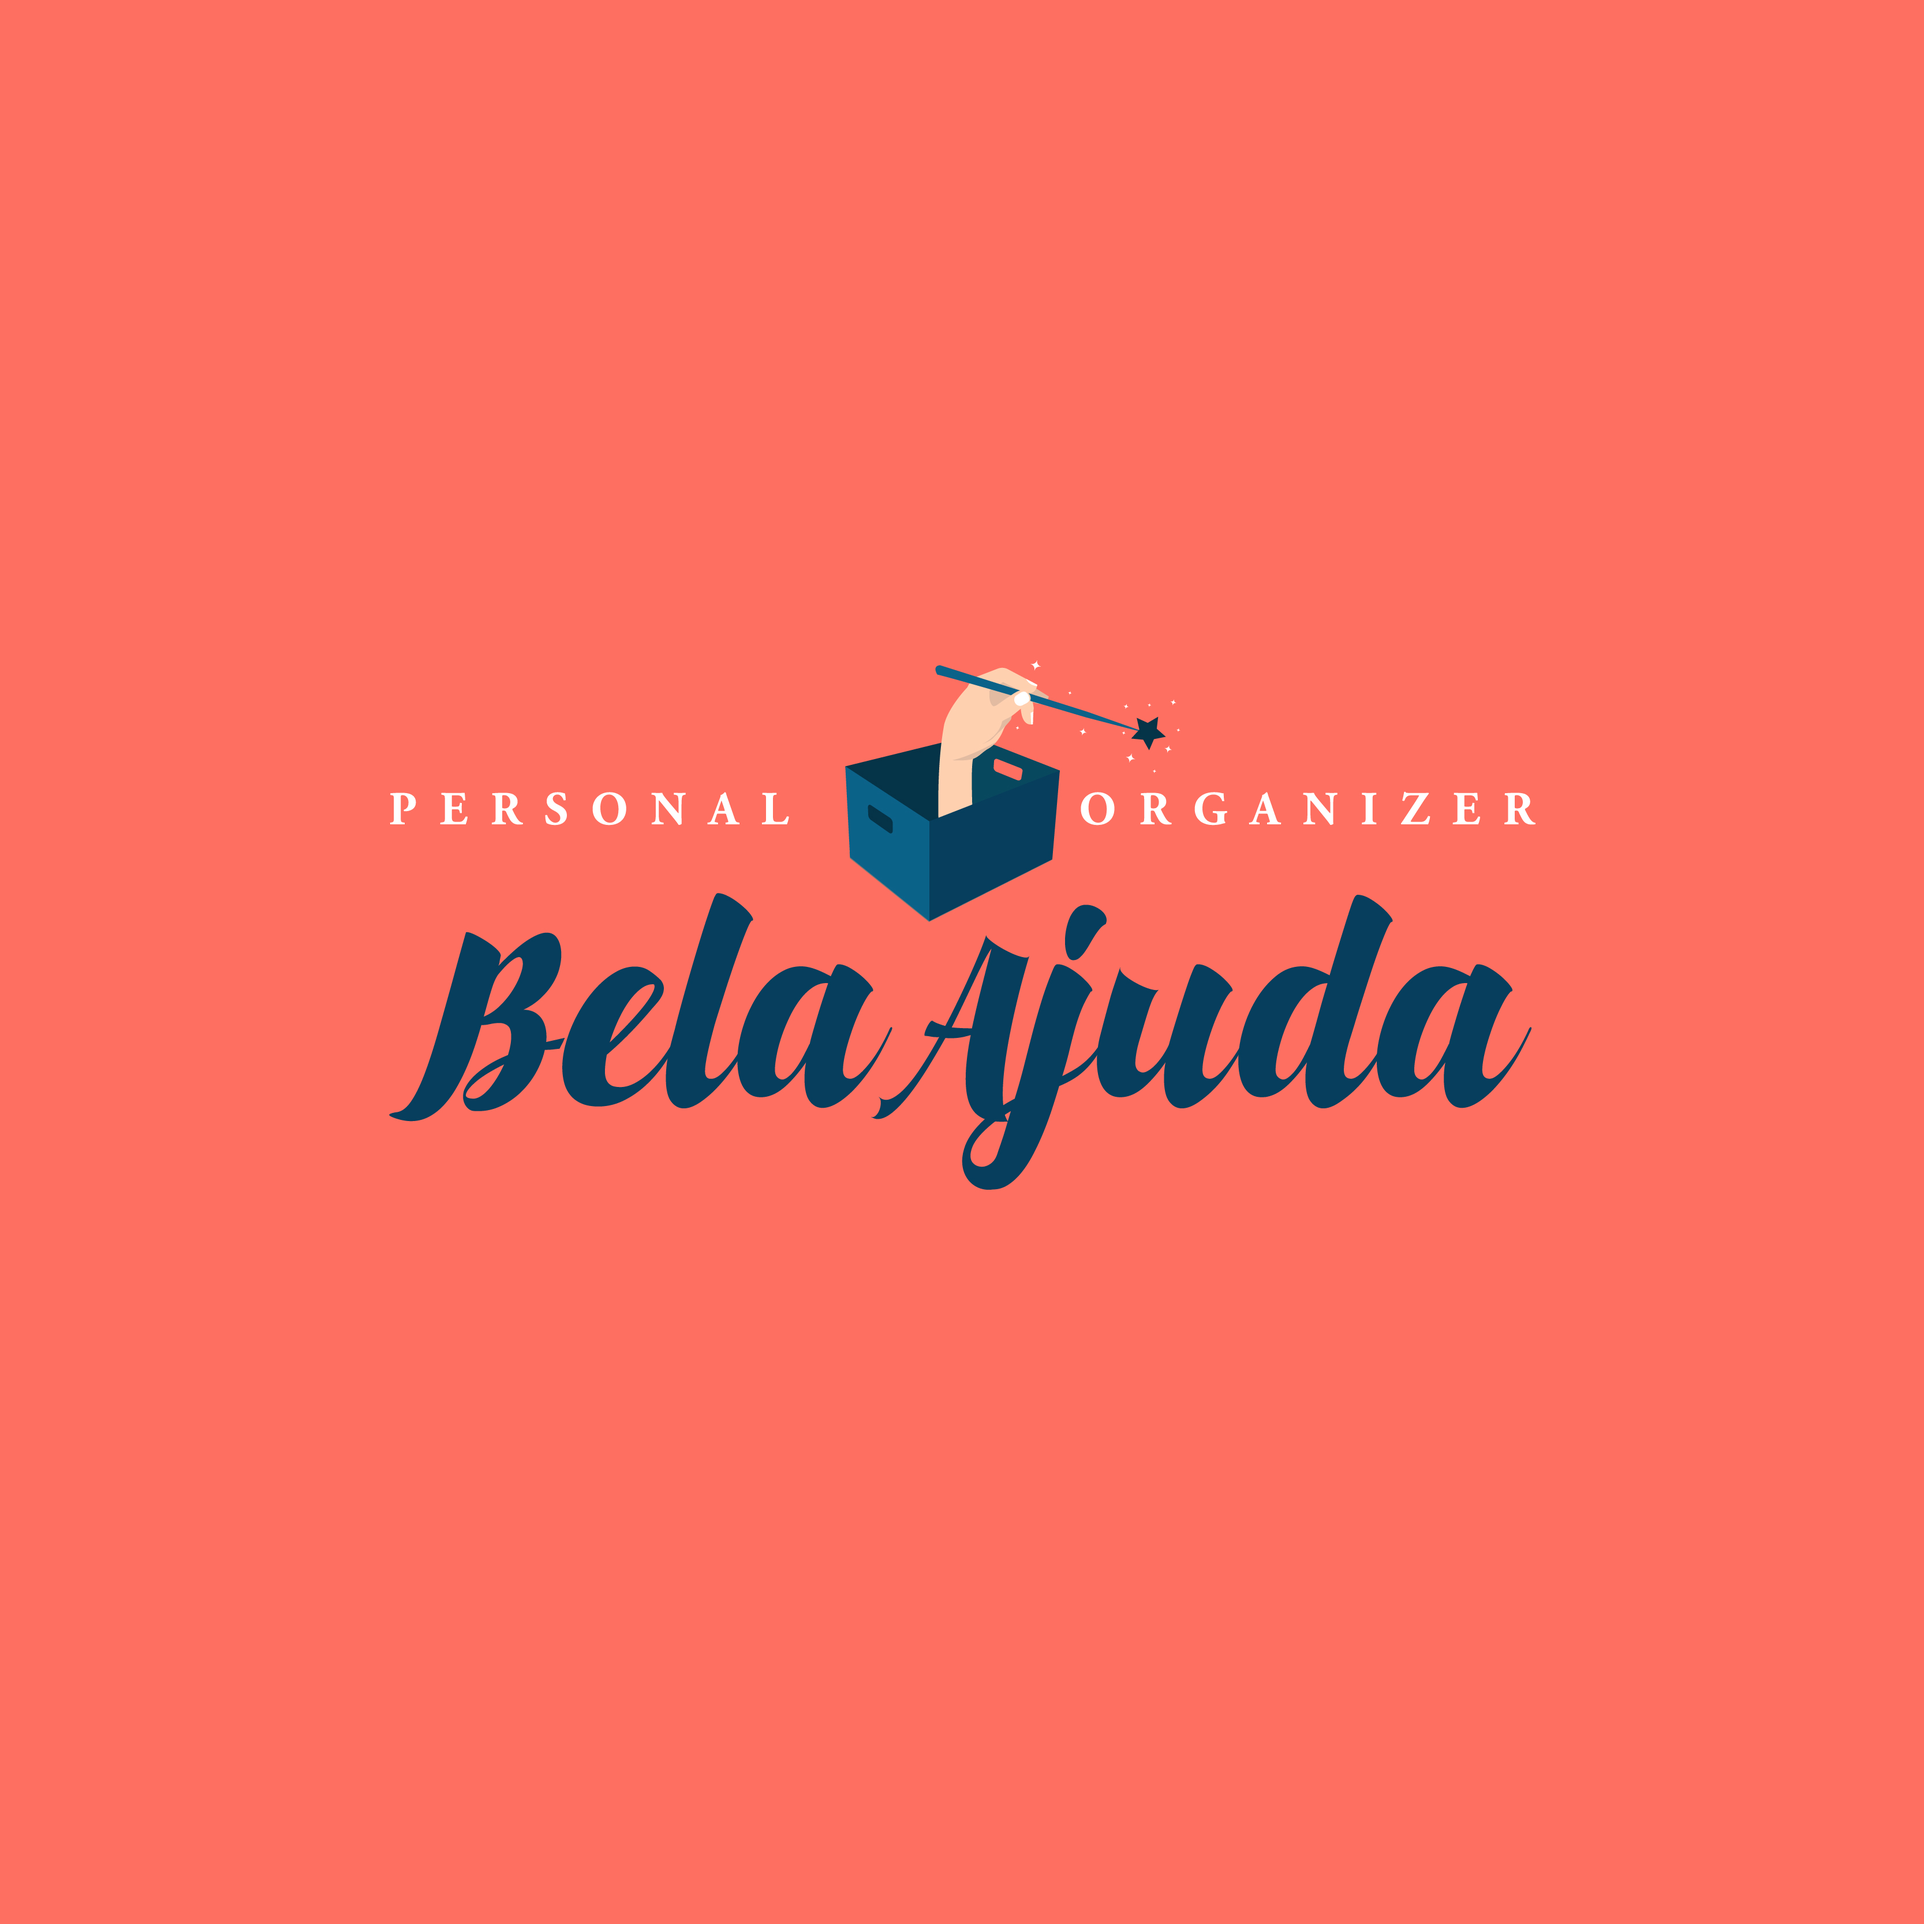
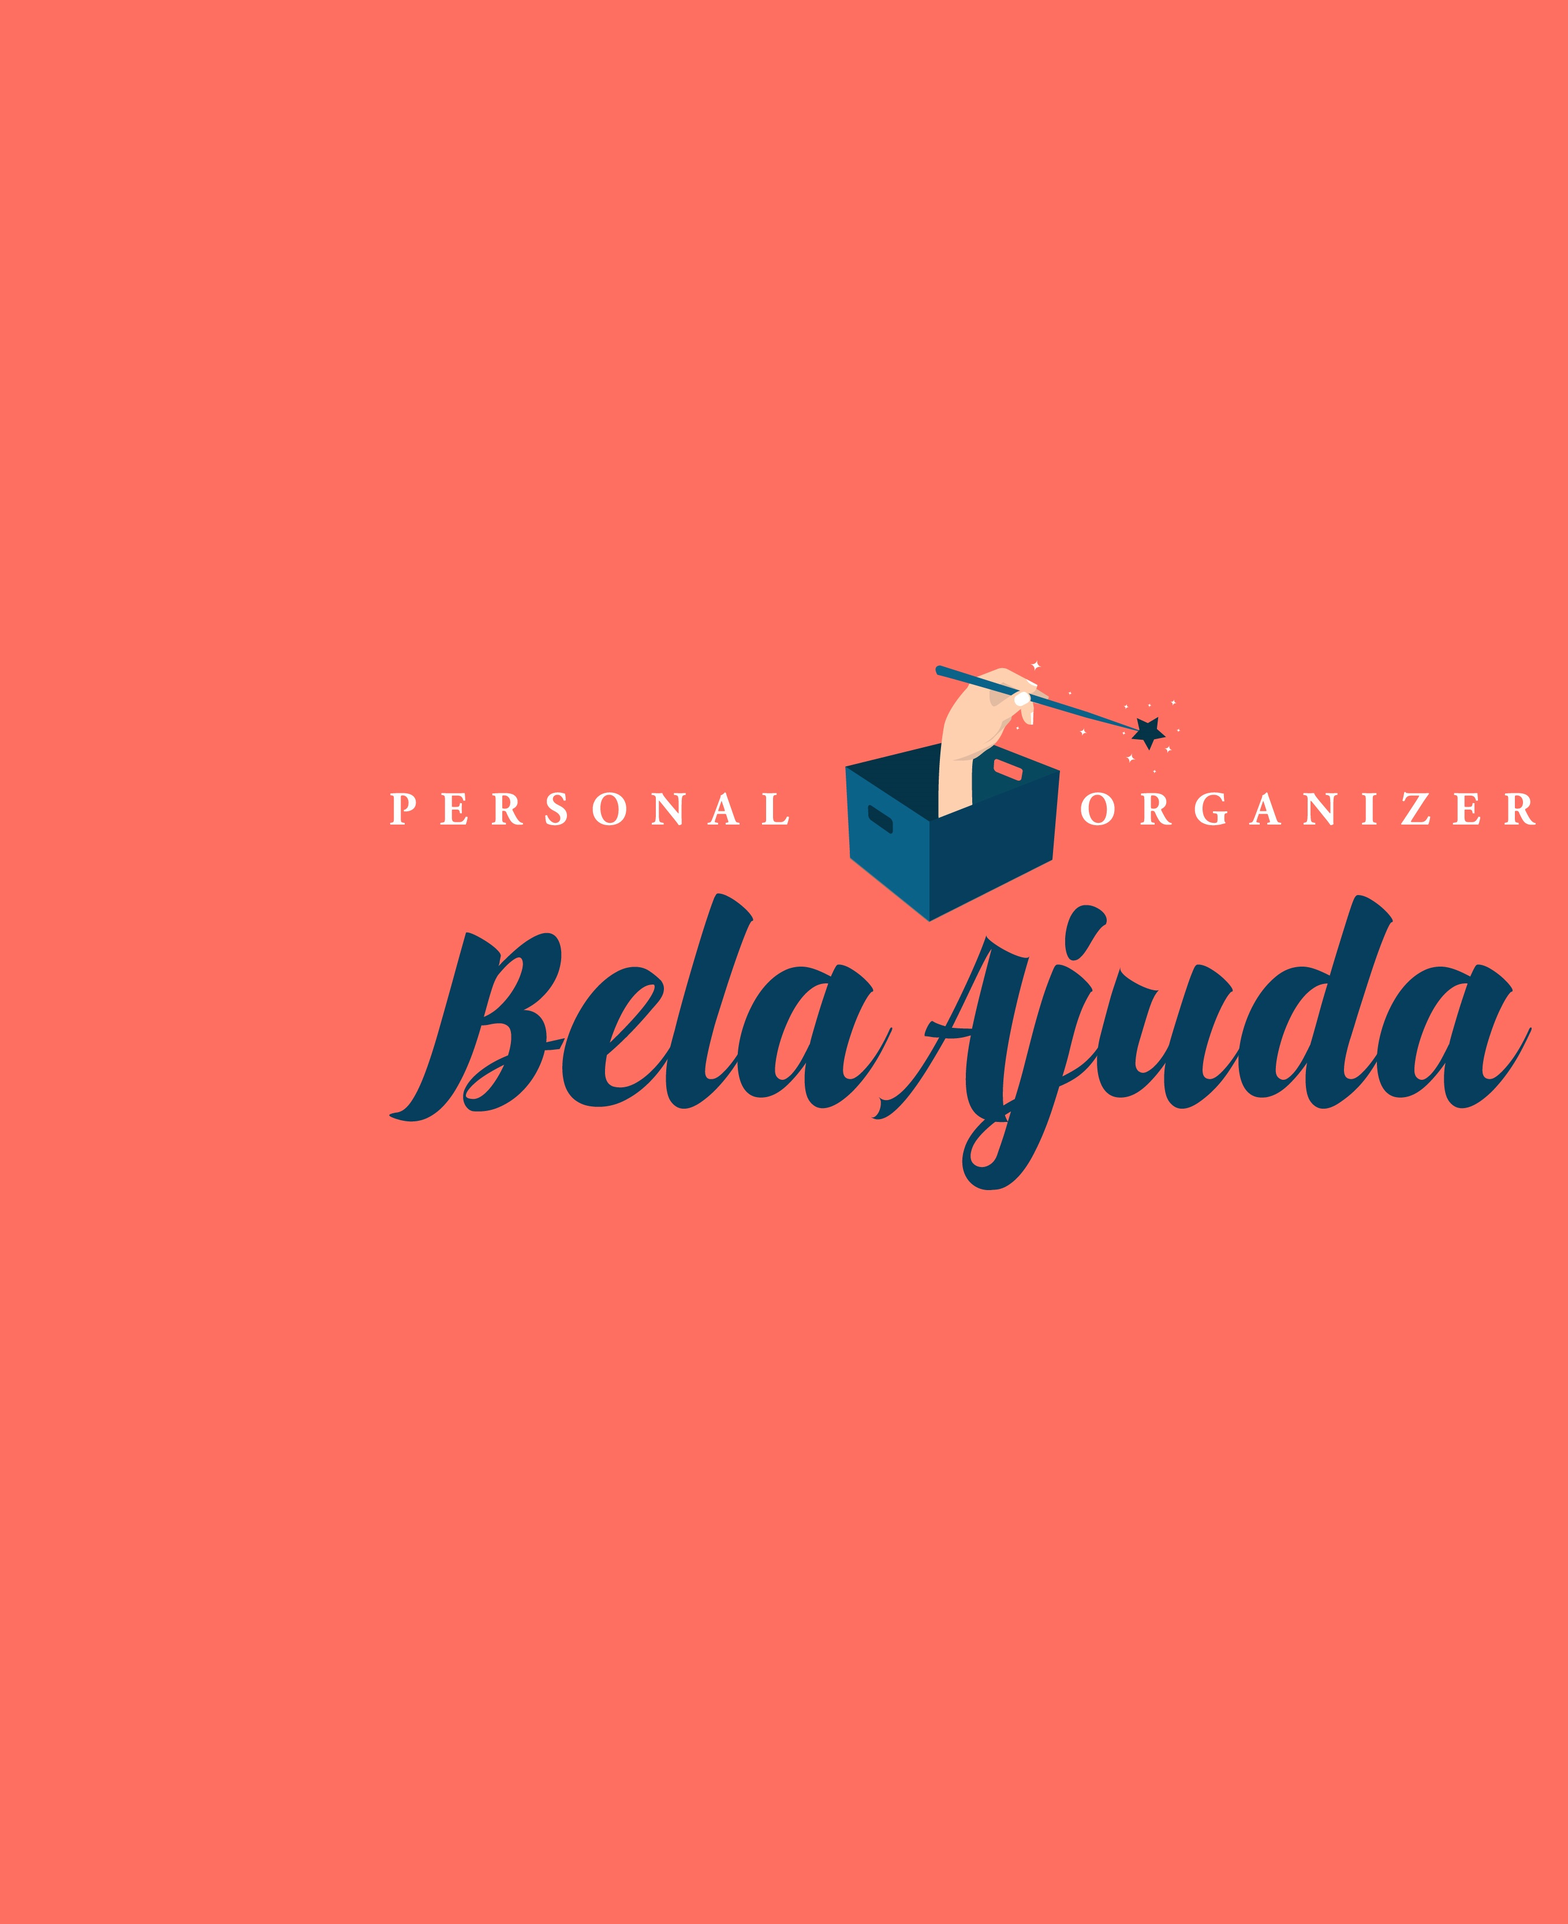
Alteração layout e novo BG

Changed region(s): [[0.1856, 0.3433, 0.9897, 0.6242]]

diff --git a/public/404.html b/public/404.html
@@ -1,0 +1,33 @@
+<!DOCTYPE html>
+<html>
+  <head>
+    <meta charset="utf-8">
+    <meta name="viewport" content="width=device-width, initial-scale=1">
+    <title>Page Not Found</title>
+
+    <style media="screen">
+      body { background: #ECEFF1; color: rgba(0,0,0,0.87); font-family: Roboto, Helvetica, Arial, sans-serif; margin: 0; padding: 0; }
+      #message { background: white; max-width: 360px; margin: 100px auto 16px; padding: 32px 24px 16px; border-radius: 3px; }
+      #message h3 { color: #888; font-weight: normal; font-size: 16px; margin: 16px 0 12px; }
+      #message h2 { color: #ffa100; font-weight: bold; font-size: 16px; margin: 0 0 8px; }
+      #message h1 { font-size: 22px; font-weight: 300; color: rgba(0,0,0,0.6); margin: 0 0 16px;}
+      #message p { line-height: 140%; margin: 16px 0 24px; font-size: 14px; }
+      #message a { display: block; text-align: center; background: #039be5; text-transform: uppercase; text-decoration: none; color: white; padding: 16px; border-radius: 4px; }
+      #message, #message a { box-shadow: 0 1px 3px rgba(0,0,0,0.12), 0 1px 2px rgba(0,0,0,0.24); }
+      #load { color: rgba(0,0,0,0.4); text-align: center; font-size: 13px; }
+      @media (max-width: 600px) {
+        body, #message { margin-top: 0; background: white; box-shadow: none; }
+        body { border-top: 16px solid #ffa100; }
+      }
+    </style>
+  </head>
+  <body>
+    <div id="message">
+      <h2>404</h2>
+      <h1>Page Not Found</h1>
+      <p>The specified file was not found on this website. Please check the URL for mistakes and try again.</p>
+      <h3>Why am I seeing this?</h3>
+      <p>This page was generated by the Firebase Command-Line Interface. To modify it, edit the <code>404.html</code> file in your project's configured <code>public</code> directory.</p>
+    </div>
+  </body>
+</html>

diff --git a/index.html b/index.html
@@ -24,7 +24,7 @@
 	
 	<div class="size1 bg0 where1-parent">
 		<!-- Coutdown -->
-		<div class="flex-c-m bg-img1 size2 where1 overlay1 where2 respon2" style="background-image: url('images/bg.jpg');" title="Bela Ajuda Organizer">
+		<div class="flex-c-m bg-img1 size2 where1 overlay1 where2 respon2" style="background-image: url('images/bg01.jpg')" title="Bela Ajuda Organizer">
 		
 		</div>
 		

diff --git a/css/main.css b/css/main.css
@@ -280,7 +280,7 @@ input.input100 {
 
 .size3 {
   max-width: 720px;
-  min-height: 100vh;
+  min-height: 60vh;
 }
 
 .size4 {
@@ -444,10 +444,10 @@ input.input100 {
 
 /*---------------------------------------------*/
 .wrap-pic1 {
-  width: 50%;
+  width: 100%;
 }
 .wrap-pic1 img {
-  max-width: 100%;
+  max-width: 110%;
 }
 
 
